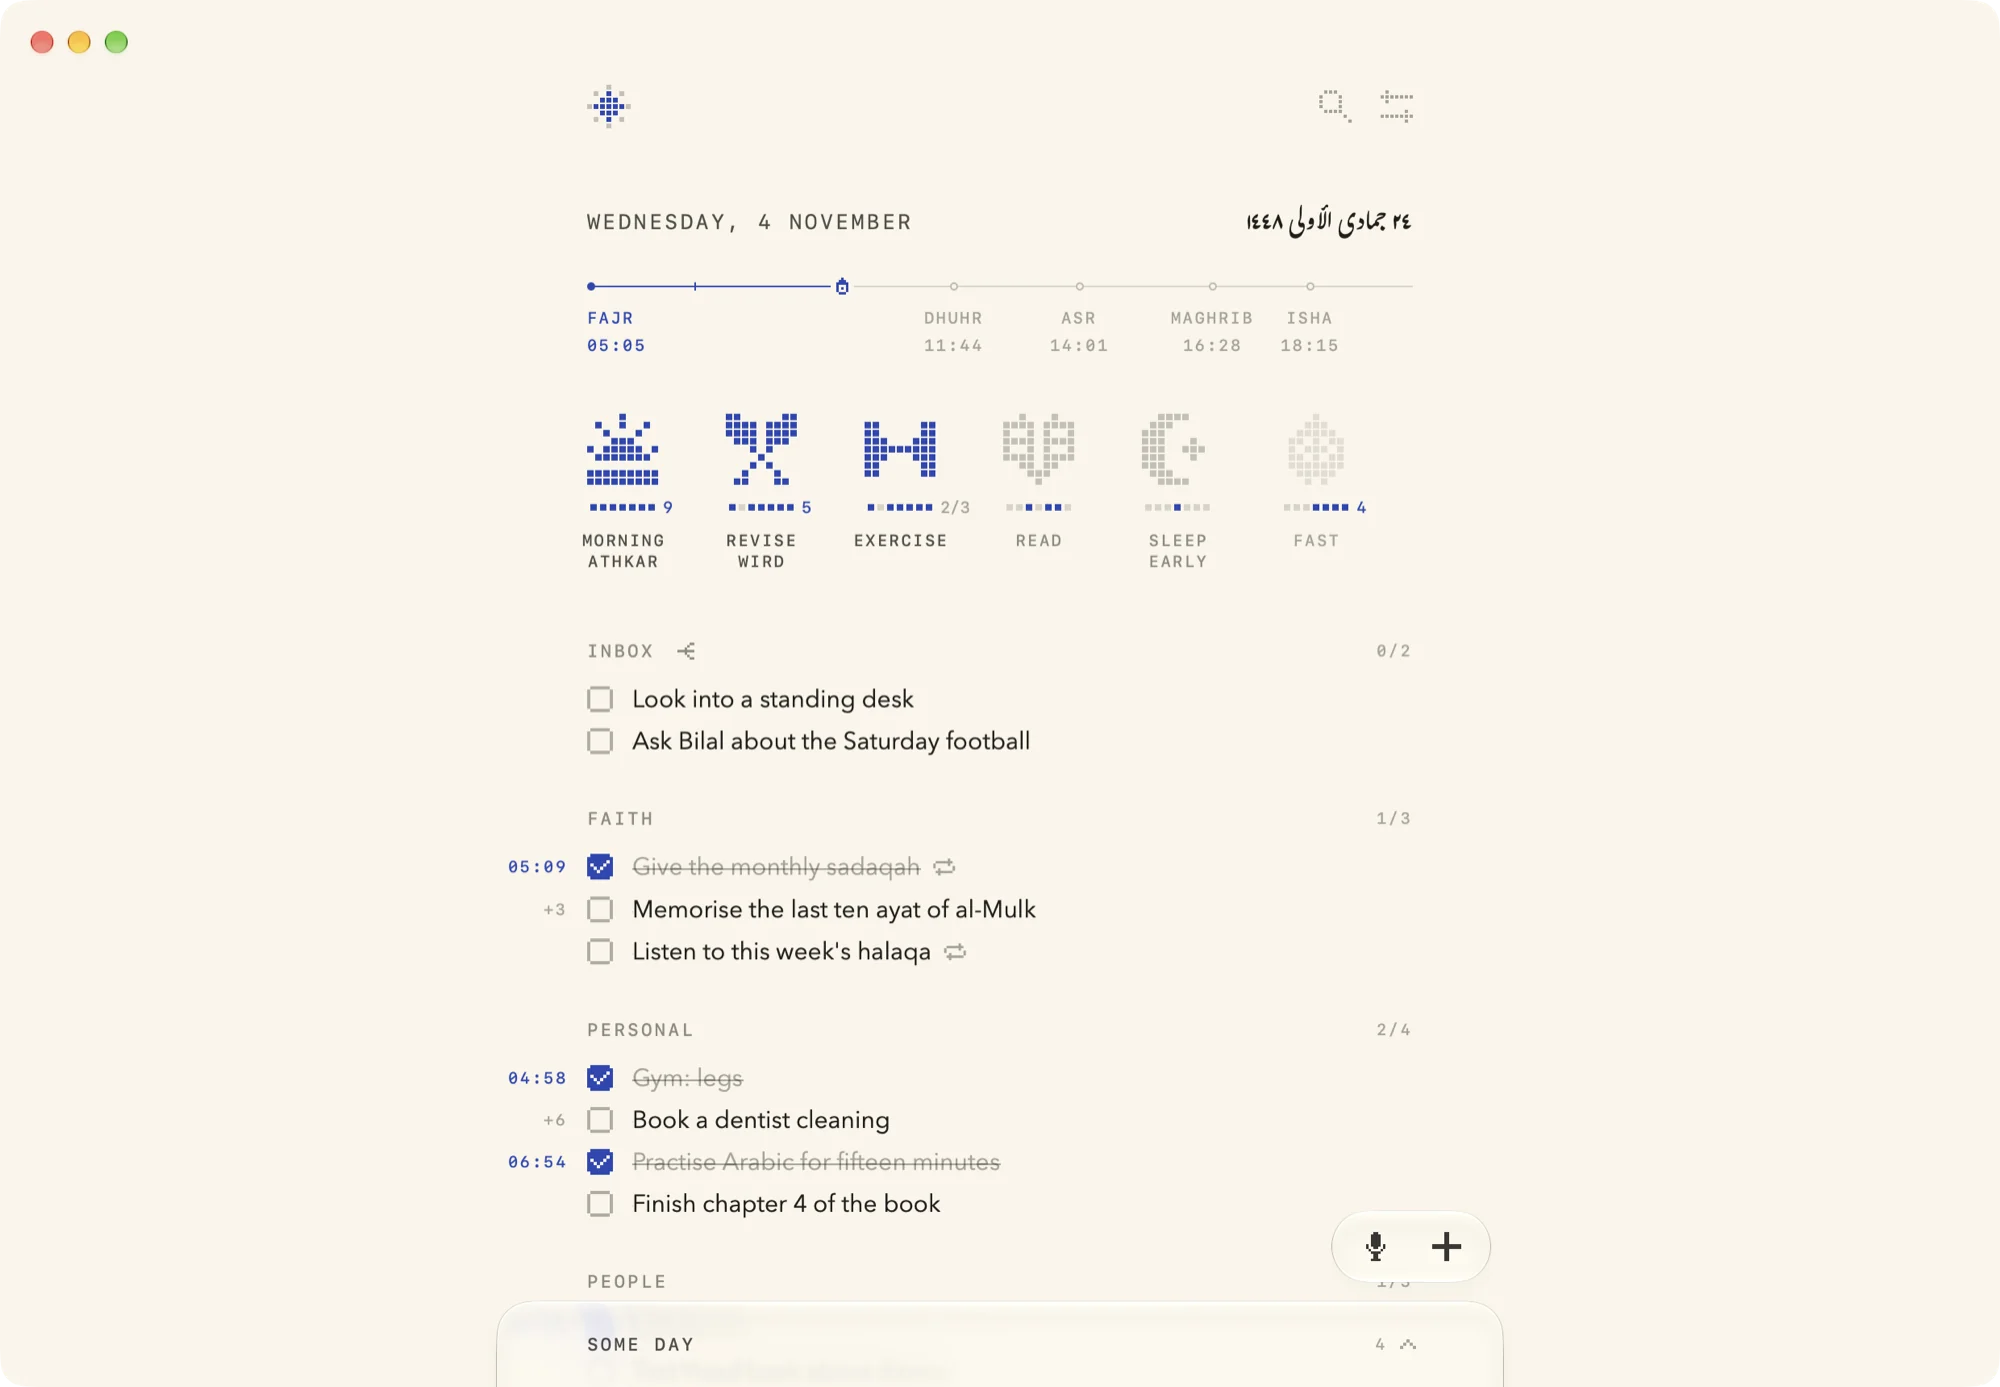
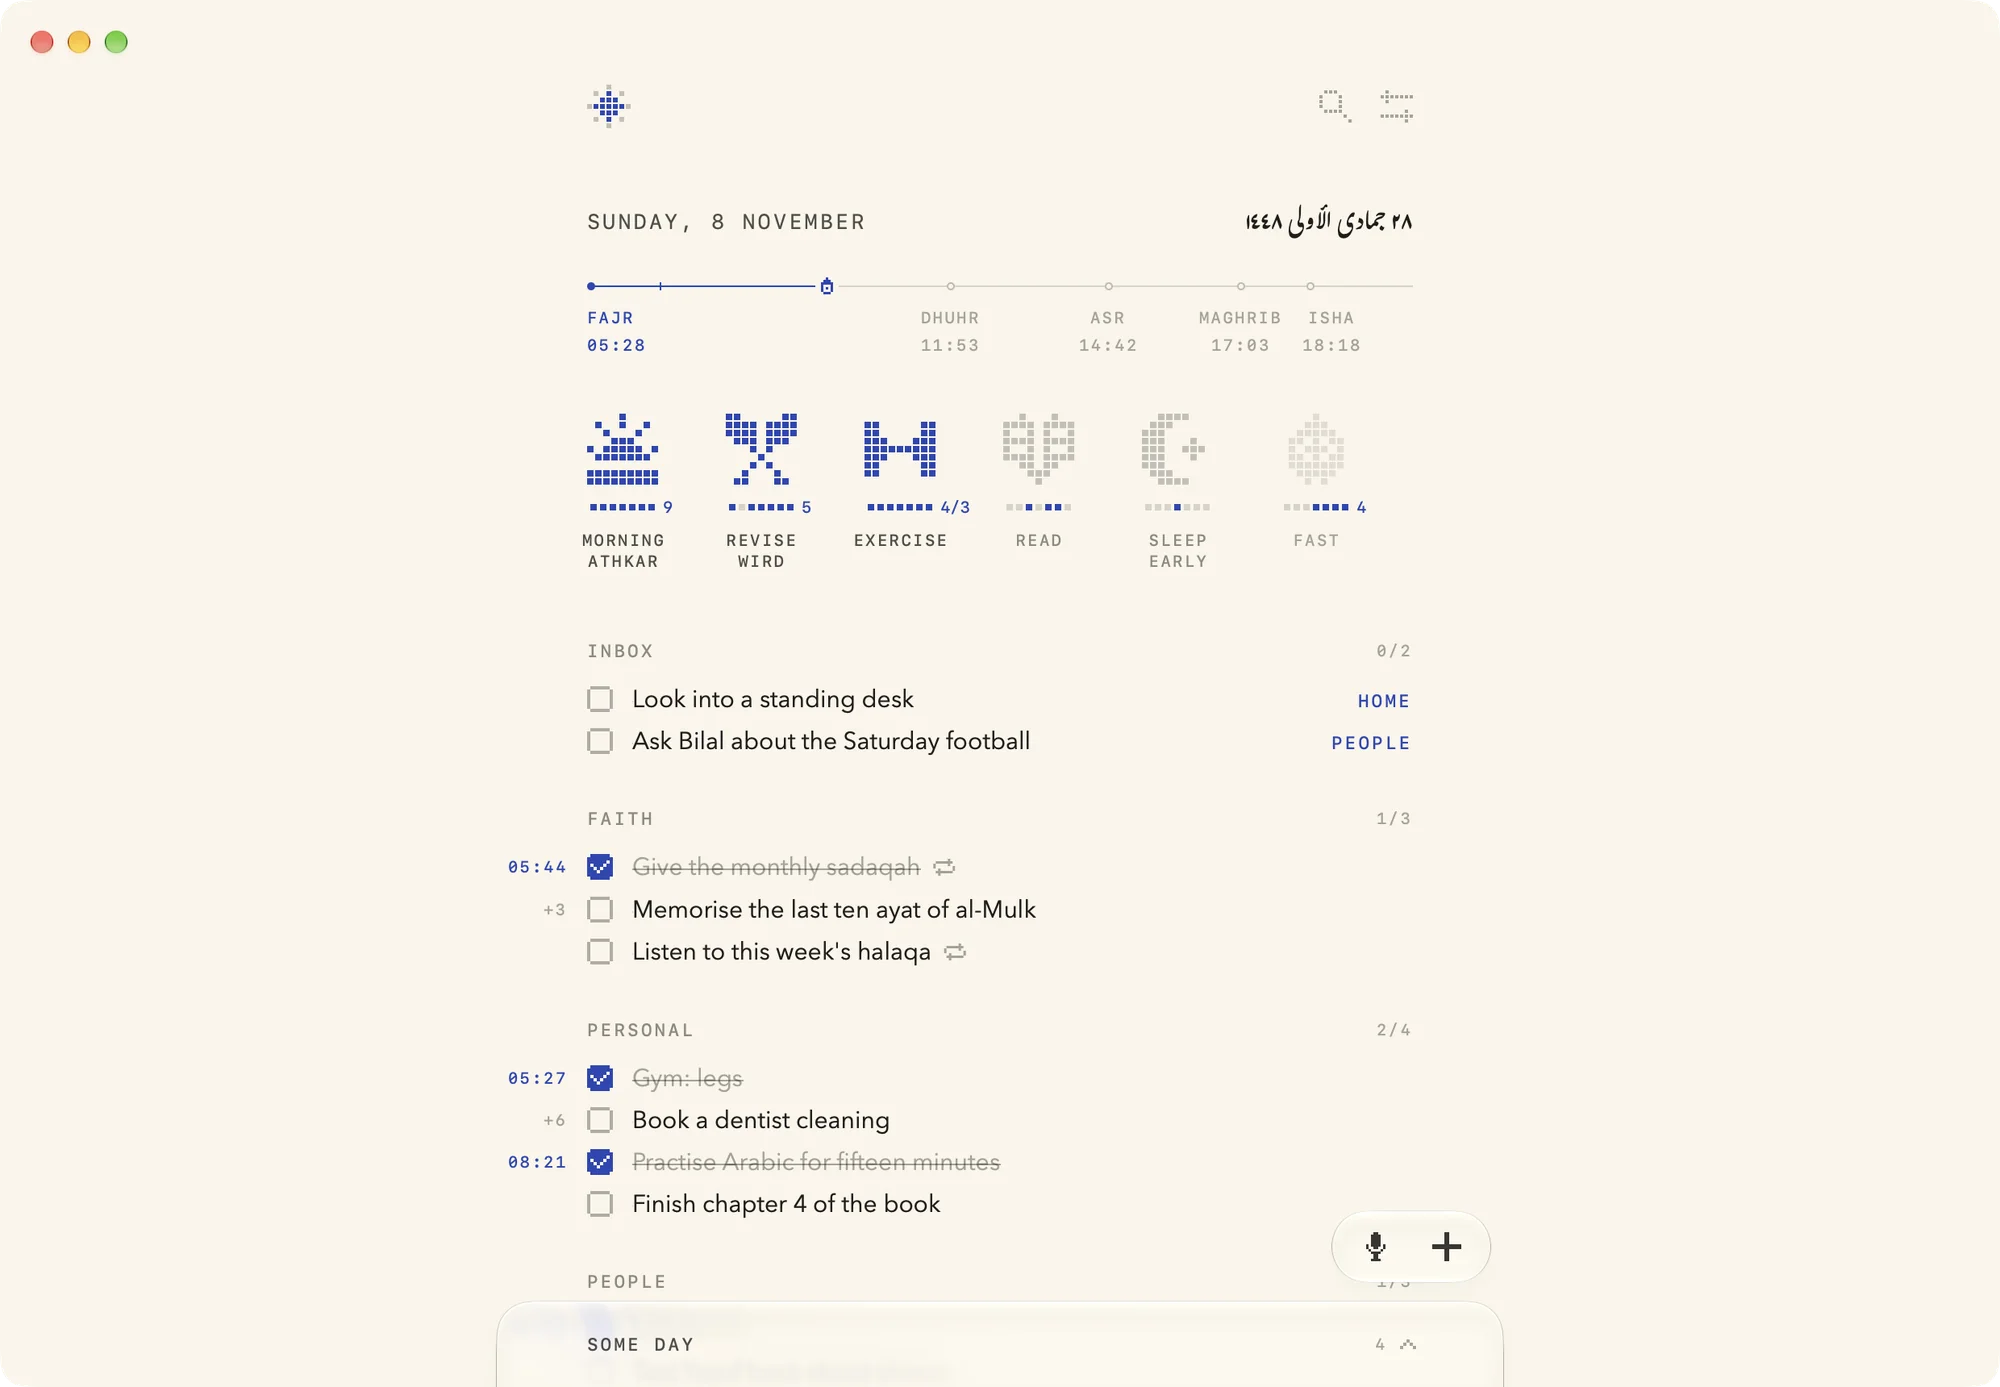
The app screenshots show the Inbox's section guesses, not the old sort
Today's iPhone and Mac pages, day and night, and the two capture cards,
retaken from the 8 Nov Debug build with the sample data.

diff --git a/index.html b/index.html
@@ -19,14 +19,14 @@
 <link rel="icon" href="favicon.svg" type="image/svg+xml">
 <link rel="apple-touch-icon" href="media/apple-touch-icon.png">
 <link rel="preload" href="fonts/gulzar-subset.woff2" as="font" type="font/woff2" crossorigin>
-<link rel="stylesheet" href="css/app.css?v=mw7jrsmy">
-<link rel="stylesheet" href="css/page.css?v=mw7jrsmy">
-<script src="sky.js?v=mw7jrsmy"></script>
+<link rel="stylesheet" href="css/app.css?v=mw83dvvy">
+<link rel="stylesheet" href="css/page.css?v=mw83dvvy">
+<script src="sky.js?v=mw83dvvy"></script>
 <script src="vendor/gsap.min.js" defer></script>
 <script src="vendor/ScrollTrigger.min.js" defer></script>
 <script src="vendor/lenis.min.js" defer></script>
-<script src="js/page.js?v=mw7jrsmy" defer></script>
-<script src="js/motion.js?v=mw7jrsmy" defer></script>
+<script src="js/page.js?v=mw83dvvy" defer></script>
+<script src="js/motion.js?v=mw83dvvy" defer></script>
 <script type="application/ld+json">
 {"@context":"https://schema.org","@type":"SoftwareApplication","name":"Rūznāma","alternateName":"Ruznama","operatingSystem":"iOS, macOS","applicationCategory":"ProductivityApplication","description":"A daily journal for your to-dos. You get a new page every day, and anything you didn't finish moves onto it at 4am.","url":"https://ruznama.app/","installUrl":"https://apps.apple.com/app/id6829597800","author":{"@type":"Person","name":"Omar El-Etr"}}
 </script>
@@ -333,7 +333,7 @@
     <figure class="mac" data-ui>
       <div class="mac-lid">
         <div class="mac-screen"><div class="mac-display">
-          <img class="sky-day" src="media/mac/today-day.webp" width="2000" height="1387" loading="lazy" alt="Rūznāma on a Mac: Wednesday's page with prayer times, habit seals and three sections">
+          <img class="sky-day" src="media/mac/today-day.webp" width="2000" height="1387" loading="lazy" alt="Rūznāma on a Mac: Sunday's page with prayer times, habit seals and three sections">
           <img class="sky-night" src="media/mac/today-night.webp" width="2000" height="1387" loading="lazy" alt="Rūznāma on a Mac at night: the same page on black">
         </div><span class="mac-notch"></span></div>
         <div class="mac-back"></div>

diff --git a/src/parts/60-both.html b/src/parts/60-both.html
@@ -7,7 +7,7 @@
     <figure class="mac" data-ui>
       <div class="mac-lid">
         <div class="mac-screen"><div class="mac-display">
-          <img class="sky-day" src="media/mac/today-day.webp" width="2000" height="1387" loading="lazy" alt="Rūznāma on a Mac: Wednesday's page with prayer times, habit seals and three sections">
+          <img class="sky-day" src="media/mac/today-day.webp" width="2000" height="1387" loading="lazy" alt="Rūznāma on a Mac: Sunday's page with prayer times, habit seals and three sections">
           <img class="sky-night" src="media/mac/today-night.webp" width="2000" height="1387" loading="lazy" alt="Rūznāma on a Mac at night: the same page on black">
         </div><span class="mac-notch"></span></div>
         <div class="mac-back"></div>
